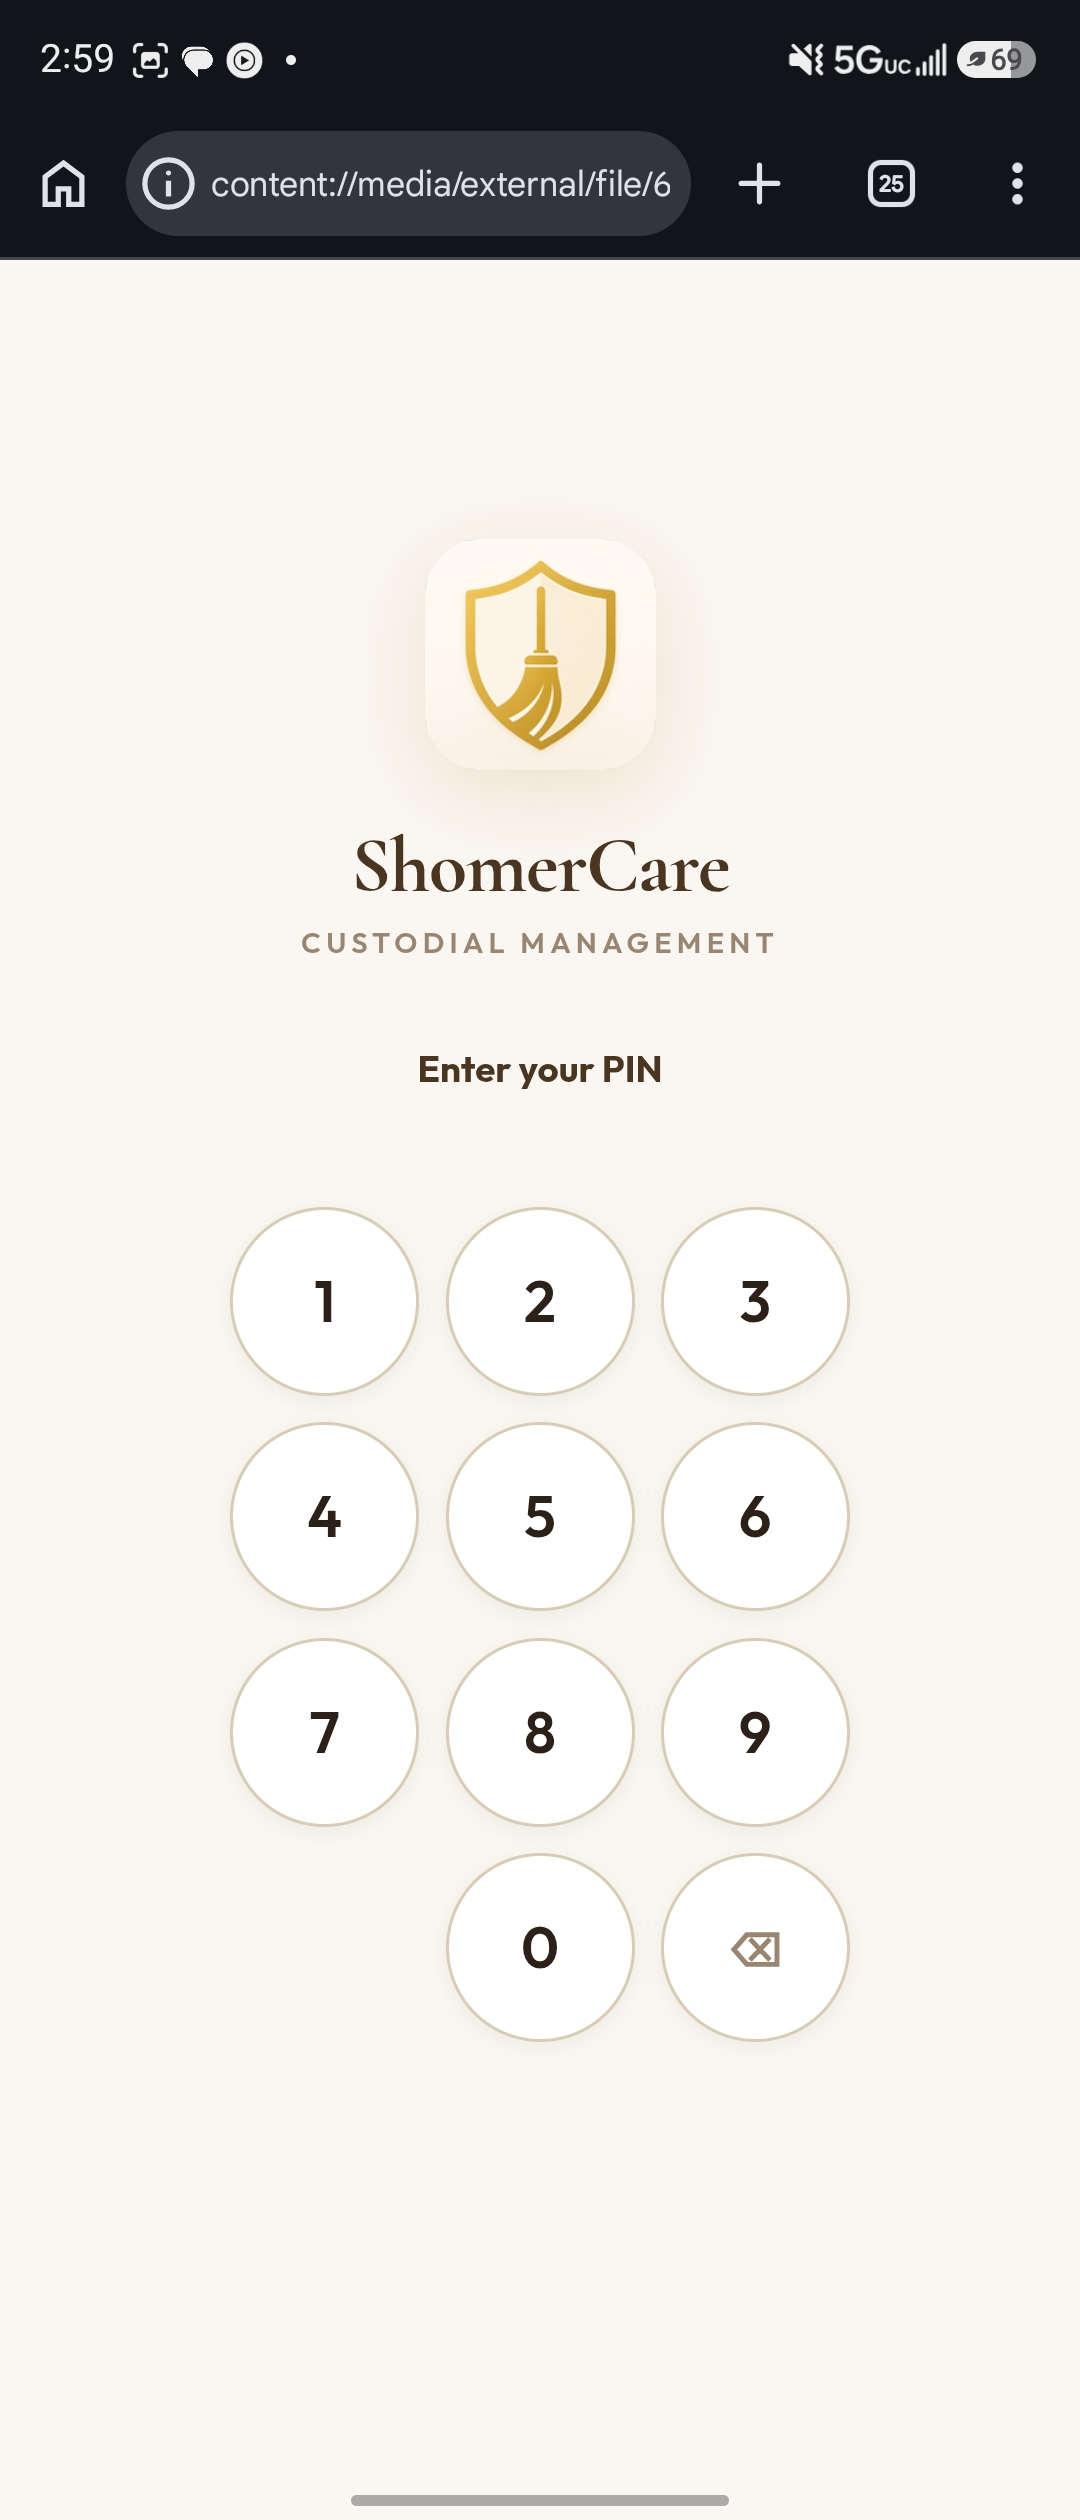
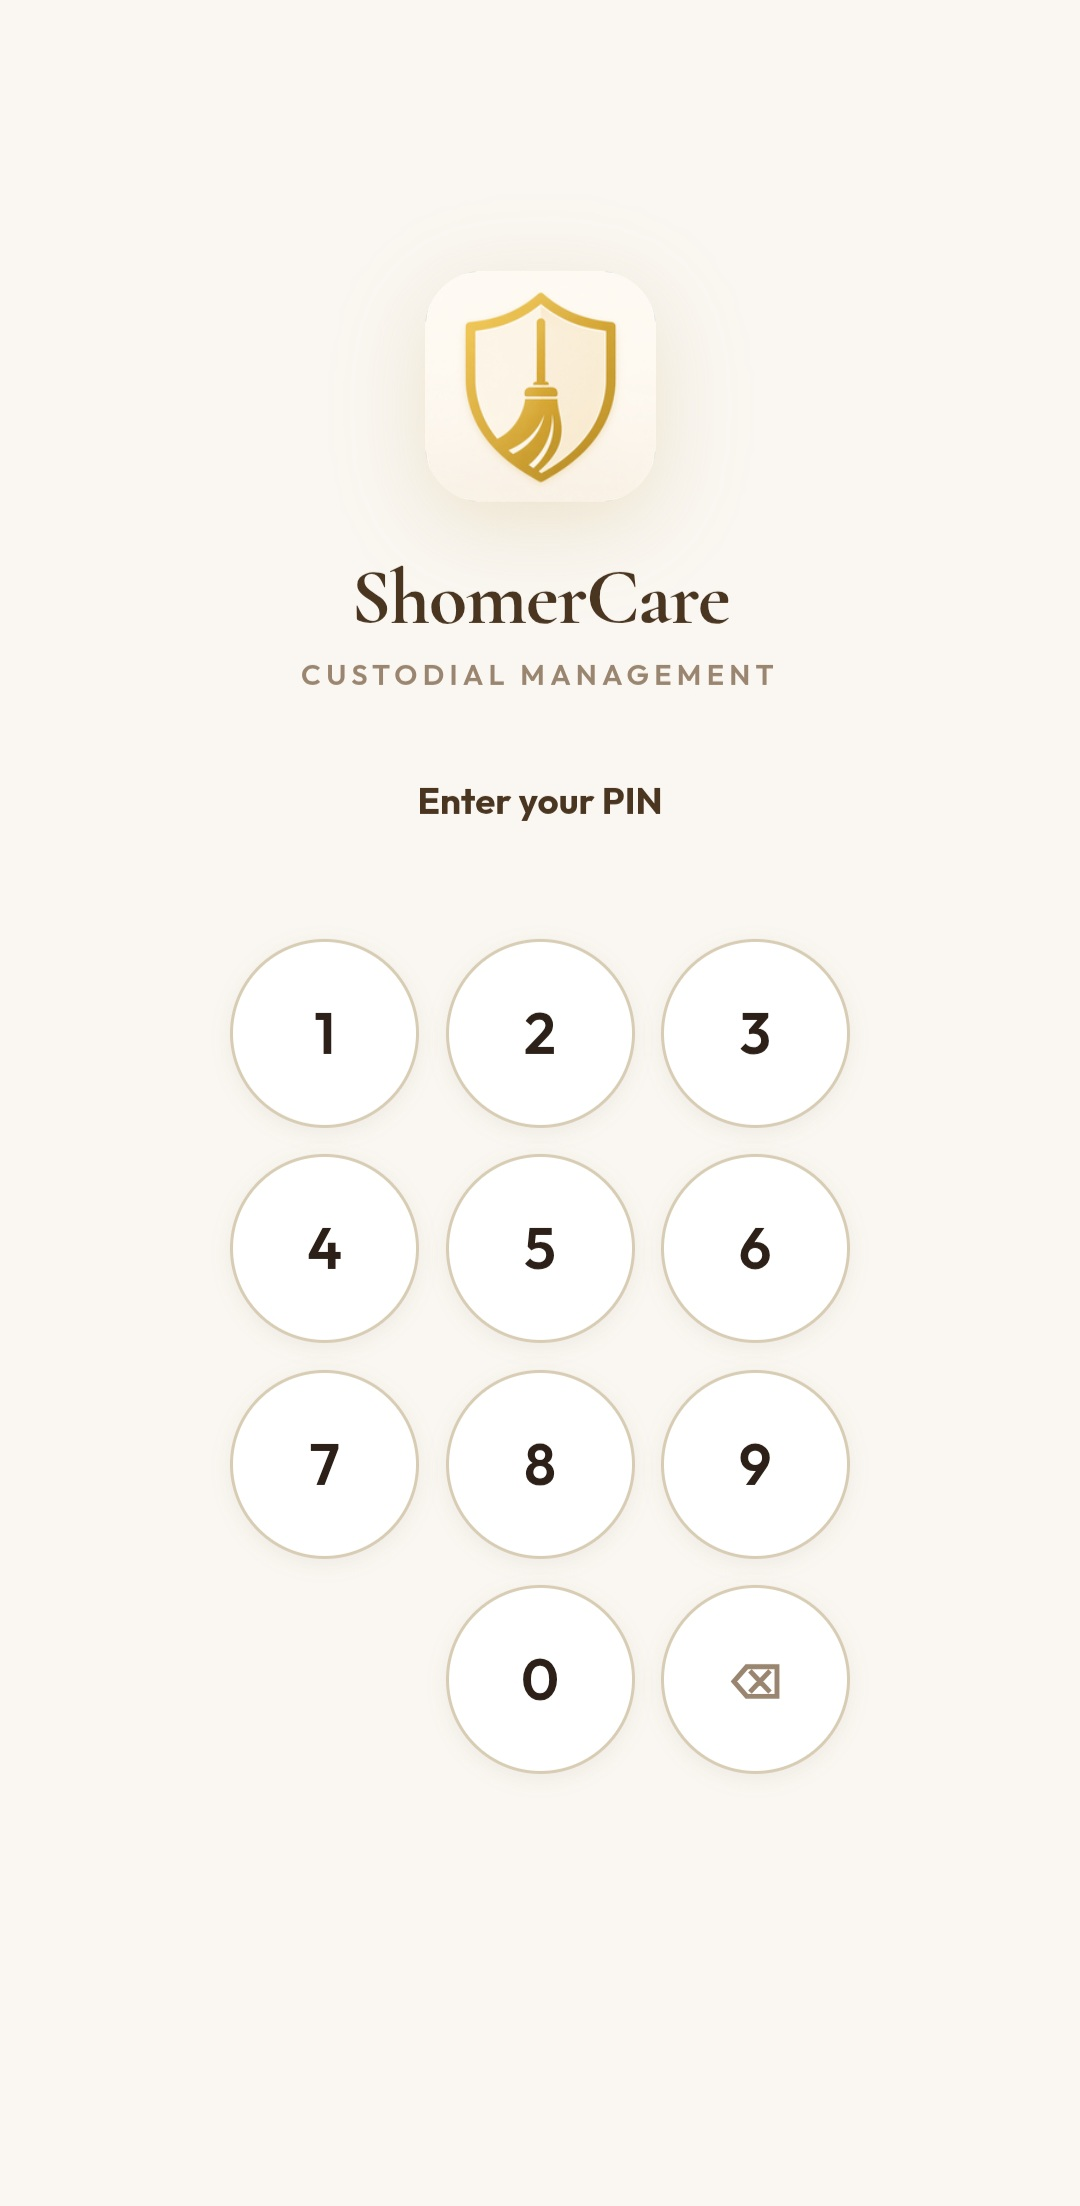
Redesign README with contextual screenshots per feature section
Replace grid layout with inline images embedded within each feature section. Add clean screenshots (no notification bar) for all 10 feature sections. Add app icon to header. Full README rewrite.

https://claude.ai/code/session_01VT9ABmhmtXnPauk26SvHwh

diff --git a/README.md b/README.md
@@ -1,6 +1,6 @@
 <div align="center">
 
-<img src="https://img.shields.io/badge/ShomerCare-v1.0-b8963e?style=for-the-badge&labelColor=4a3520" alt="ShomerCare v1.0">
+<img src="assets/app-icon.png" alt="ShomerCare" width="110">
 
 # ShomerCare
 ### Custodial Zone Management System
@@ -13,11 +13,11 @@
 [![License](https://img.shields.io/badge/License-MIT-green?style=flat-square)](LICENSE)
 [![Built with](https://img.shields.io/badge/Built%20with-❤️%20%26%20Claude%20AI-7c6fff?style=flat-square)](https://claude.ai)
 
-[🚀 Live Demo](#) · [📖 User Guide](#user-guide) · [🔐 Security](#security) · [📬 Contact](#contact)
+[📖 User Guide](#-in-app-user-guide) · [🔐 Security](#-security) · [📬 Contact](#-contact)
 
 ---
 
-<img src="assets/dashboard-saved.jpg" alt="ShomerCare Dashboard Preview" width="340">
+<img src="assets/dashboard-zones.jpg" alt="ShomerCare Dashboard" width="340">
 
 </div>
 
@@ -40,65 +40,134 @@ ShomerCare was built specifically to solve all of this — in a single HTML file
 ## ✨ Features
 
 ### 🏛️ Zone Coverage Management
-- **5 critical zones** with visual coverage tracking per zone per window
-- **3 work windows per day** (Morning · Midday · Evening) — all times fully editable
-- Real-time coverage percentage with color-coded status badges
-- Visual alert when zones are uncovered
+
+Real-time tracking across **5 critical zones** and **3 work windows per day**. Coverage percentage updates instantly as you assign people. Each zone shows its own status badge and alerts when uncovered.
+
+<div align="center">
+<img src="assets/dashboard-stats.jpg" alt="Coverage Stats" width="270"> &nbsp; <img src="assets/zone-modal.jpg" alt="Zone Assignment Modal" width="270">
+</div>
+
+- **5 critical zones** with per-zone, per-window visual tracking
+- **3 work windows** (Morning · Midday · Evening) — all times fully editable
+- Real-time coverage % with color-coded status badges
+- Visual alert when any zone is uncovered
+
+---
 
 ### 👥 Smart Team Profiles
-- Full collaborator profiles with name, ID, WhatsApp, type (Full/Part)
-- **Per-day, per-window schedule grid** — set exactly when each person works
-- Zone primary assignments for smart replacement suggestions
-- Supervisor private notes per person
+
+Every collaborator gets a full profile with 4 tabs: **Info**, **Schedule**, **Zones**, and **Days Off**. The schedule grid lets you set exactly which day/window each person works. Zone assignments power the smart replacement engine.
+
+<div align="center">
+<img src="assets/team-info.jpg" alt="Team Profile Info" width="230"> &nbsp; <img src="assets/team-schedule.jpg" alt="Team Schedule Grid" width="230"> &nbsp; <img src="assets/team-zones.jpg" alt="Team Zone Assignments" width="230">
+</div>
+
+- Full profiles: name, ID, WhatsApp, type (Full/Part)
+- **Per-day, per-window schedule grid** — precise availability per person
+- Primary zone assignments for smart replacement suggestions
 - Color-coded team chips across the entire interface
+- Supervisor private notes per person
+
+---
 
 ### 📅 Days Off & Smart Replacements
+
+Add a day off for any collaborator with date and optional reason. The app instantly marks ⚠️ alerts in every slot that person was assigned and surfaces replacements in 3 tiers.
+
+<div align="center">
+<img src="assets/days-off-list.jpg" alt="Days Off List" width="230"> &nbsp; <img src="assets/add-day-off.jpg" alt="Add Day Off" width="230"> &nbsp; <img src="assets/person-picker.jpg" alt="Smart Person Picker" width="230">
+</div>
+
 - Add day-off dates with optional reason per collaborator
 - Automatic red alert ⚠️ where the absent person was assigned
 - **3-tier replacement system:**
   - 🟢 **Primary team** — zone teammates available this window
-  - 🟡 **Available** — anyone else available
+  - 🟡 **Available** — anyone else with open availability
   - 🔴 **Outside regular hours** — triggers 5-second override warning
 - Non-destructive: original assignment restored when person returns
 
+---
+
 ### 💾 Save, Share & Print
+
+Every change auto-saves. Share the day's full schedule via WhatsApp with one tap. If coverage is incomplete, an override flow lets you share anyway with a note to the team.
+
+<div align="center">
+<img src="assets/progress-saved.jpg" alt="Progress Saved Toast" width="270"> &nbsp; <img src="assets/coverage-alert.jpg" alt="Day Not Fully Covered" width="270">
+</div>
+
 - **Auto-save** on every change + manual save button
-- **Share Day** — WhatsApp message with full day schedule + optional note
+- **Share Day** — WhatsApp message with full schedule + optional note
 - **Share Week** — appears on Fridays when Mon–Fri are all complete
-- Day notes included in WhatsApp and printed output
 - Incomplete day sharing with override option and team note
+- Day notes included in WhatsApp and printed output
+
+---
 
 ### 🖨️ Print-Ready Weekly Schedule
-- Professional print layout — one table per day
-- Color-coded team legend
-- Day notes and day-off alerts (⚠️ red) included
-- Supervisor name and timestamp in footer
+
+Professional print layout — one table per day, color-coded team legend, day notes, day-off alerts (⚠️ red), and supervisor name + timestamp in the footer.
+
+---
 
 ### 🌍 Trilingual Interface
-- **English · Spanish · Tongan** — switch instantly from the header
-- All UI elements, messages, WhatsApp content, and print output translate
+
+Switch instantly between **English · Spanish · Tongan** from the header. All UI elements, messages, WhatsApp content, and print output translate completely.
+
+---
 
 ### 🔄 Cross-Device Sync
-- **QR Code** — generate on PC, scan on phone to load all data
+
+<div align="center">
+<img src="assets/sync-qr.jpg" alt="Sync and QR Code" width="320">
+</div>
+
+- **QR Code** — generate on PC, scan on phone to load all data instantly
 - **JSON Export/Import** — send file via WhatsApp/email, import on any device
 - 5-second countdown + explicit warning before any import (prevents accidental data loss)
 
+---
+
 ### ⚙️ Fully Configurable
+
+<div align="center">
+<img src="assets/settings.jpg" alt="Settings and Configuration" width="320">
+</div>
+
 - Temple/facility name, supervisor info, photo
 - Working days toggle (on/off per day)
 - **Editable work windows** — change start/end times per day per window on the fly
 - Reset to defaults option
 
+---
+
 ### 🔐 PIN Lock System
+
+<div align="center">
+<img src="assets/splash.jpg" alt="Splash Screen" width="255"> &nbsp; <img src="assets/pin-lock.jpg" alt="PIN Entry Screen" width="255">
+</div>
+
 - Secure 6-digit PIN required to access the app
 - First-launch PIN registration flow with confirmation
 - 3-attempt limit with auto-reset and developer contact info
 - Change PIN from a hidden menu (3-tap secret access)
 - Lock app button from within the Easter egg panel
 
+---
+
+### 📖 In-App User Guide
+
+<div align="center">
+<img src="assets/user-guide.jpg" alt="In-App User Guide" width="320">
+</div>
+
+Built-in accordion tutorial covering every feature — no external docs needed.
+
+---
+
 ### ⚛️ Easter Egg
-- Hidden React atom ⚛️ at the bottom of the dashboard
-- Tap to reveal developer info and app controls
+
+Hidden React atom ⚛️ at the bottom of the dashboard. Tap it to reveal developer info and app controls.
 
 ---
 
@@ -108,7 +177,7 @@ ShomerCare was built specifically to solve all of this — in a single HTML file
 
 ```bash
 # 1. Clone the repo
-git clone https://github.com/Victordaz07/shomercare.git
+git clone https://github.com/Victordaz07/shomercare-demo.git
 
 # 2. Open the file in any modern browser
 open shomercare-demo.html
@@ -129,13 +198,13 @@ open shomercare-demo.html
 ## 🏗️ Architecture
 
 ```
-shomercare.html          ← entire application (single file)
+shomercare-demo.html     ← entire application (single file)
 │
 ├── CSS (~500 lines)     CSS variables, responsive layout, animations
 ├── HTML (~800 lines)    Views, modals, lock screen, nav
-└── JavaScript           
+└── JavaScript
     ├── Translations     EN / ES / TO dictionary
-    ├── Data Layer       localStorage with validation & sanitization  
+    ├── Data Layer       localStorage with validation & sanitization
     ├── PIN System       Registration, unlock, change PIN, master key
     ├── Dashboard        Zone rendering, coverage calculation, FAB
     ├── Team Profiles    Rich profiles with schedule grid
@@ -146,7 +215,7 @@ shomercare.html          ← entire application (single file)
     └── Guide            In-app tutorial (accordion)
 ```
 
-**No dependencies.** No npm. No build step. No framework.  
+**No dependencies.** No npm. No build step. No framework.
 One file. Open it. Done.
 
 ---
@@ -175,59 +244,12 @@ ShomerCare handles sensitive personnel and scheduling data. Multiple layers of p
 ```
 shomercare-demo/
 ├── shomercare-demo.html   ← Public demo (generic team, no master key)
-├── assets/                ← Screenshots (18 captures)
+├── assets/                ← App icon + 17 screenshots
 ├── README.md
 └── LICENSE
 ```
 
 > The production version (with real team data) is maintained in a private repository.
-
----
-
-## 🖥️ Screenshots
-
-<table>
-  <tr>
-    <td align="center"><b>Splash Screen</b></td>
-    <td align="center"><b>PIN Lock</b></td>
-    <td align="center"><b>Dashboard — Active</b></td>
-  </tr>
-  <tr>
-    <td><img src="assets/splash-screen.jpg" width="220"></td>
-    <td><img src="assets/pin-lock.jpg" width="220"></td>
-    <td><img src="assets/dashboard-active.jpg" width="220"></td>
-  </tr>
-  <tr>
-    <td align="center"><b>Rest Day View</b></td>
-    <td align="center"><b>Zone Assignment</b></td>
-    <td align="center"><b>Smart People Picker</b></td>
-  </tr>
-  <tr>
-    <td><img src="assets/dashboard-rest-day.jpg" width="220"></td>
-    <td><img src="assets/zone-assignment.jpg" width="220"></td>
-    <td><img src="assets/smart-picker.jpg" width="220"></td>
-  </tr>
-  <tr>
-    <td align="center"><b>Coverage Alert & Share</b></td>
-    <td align="center"><b>Days Off</b></td>
-    <td align="center"><b>Settings & Sync</b></td>
-  </tr>
-  <tr>
-    <td><img src="assets/share-coverage-alert.jpg" width="220"></td>
-    <td><img src="assets/days-off.jpg" width="220"></td>
-    <td><img src="assets/settings-sync.jpg" width="220"></td>
-  </tr>
-  <tr>
-    <td align="center"><b>Share Full Week</b></td>
-    <td align="center"><b>User Guide</b></td>
-    <td align="center"><b>Team Profiles</b></td>
-  </tr>
-  <tr>
-    <td><img src="assets/share-full-week.jpg" width="220"></td>
-    <td><img src="assets/user-guide.jpg" width="220"></td>
-    <td><img src="assets/team-profile-schedule.jpg" width="220"></td>
-  </tr>
-</table>
 
 ---
 